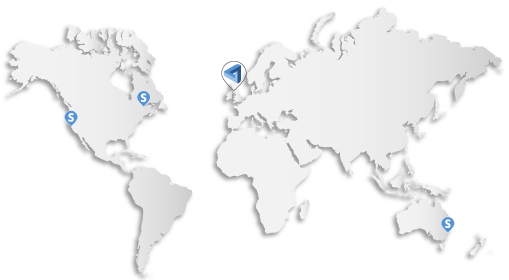
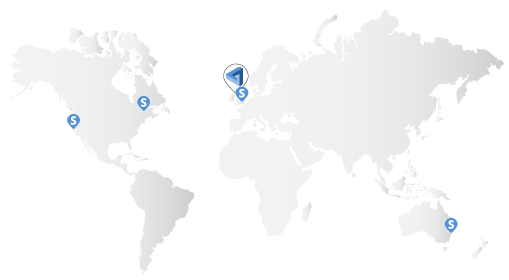
add London meetup to pod map

diff --git a/app/css/safe-pod.css b/app/css/safe-pod.css
@@ -19,7 +19,8 @@
 #pod-map #pod-1 {left:141px; top:238px; z-index:20;}
 #pod-map #pod-2 {left:858px; top:438px; z-index:20;}
 #pod-map #pod-3 {left:280px; top:199px; z-index:20;}
-#pod-map a#sanfrancisco, #pod-map a#sydney, #pod-map a#montreal {
+#pod-map #pod-4 {left:462px; top:186px; z-index:20;}
+#pod-map a#sanfrancisco, #pod-map a#sydney, #pod-map a#montreal, #pod-map a#london {
   display:block;
   width:31px;
   height:37px;
@@ -30,8 +31,8 @@
   display:none;
   color:#585858;
 }
-#pod-map a#sanfrancisco, #pod-map a#sydney, #pod-map a#montreal {background:url(/img/pod_icon.png) no-repeat 0 0;}
-#pod-map a#sanfrancisco:hover, #pod-map a#sydney:hover, #pod-map a#montreal:hover {background:url(/img/pod_icon_hover.png) no-repeat 0 0;}
+#pod-map a#sanfrancisco, #pod-map a#sydney, #pod-map a#montreal, #pod-map a#london {background:url(/img/pod_icon.png) no-repeat 0 0;}
+#pod-map a#sanfrancisco:hover, #pod-map a#sydney:hover, #pod-map a#london:hover, #pod-map a#london:hover {background:url(/img/pod_icon_hover.png) no-repeat 0 0;}
 #pod-map a:hover div {
   position:absolute;
   bottom: 300px;
@@ -49,15 +50,10 @@
   left:50px;
   top:10px;
 }
-#pod-map a#sanfrancisco:hover div {
-  left:30px;
-  top:2px;
-}
-#pod-map a#sydney:hover div {
-  left:30px;
-  top:2px;
-}
-#pod-map a#montreal:hover div {
+#pod-map a#sanfrancisco:hover div, 
+#pod-map a#sydney:hover div,
+#pod-map a#montreal:hover div,
+#pod-map a#london:hover div {
   left:30px;
   top:2px;
 }

diff --git a/app/safe-pods.html b/app/safe-pods.html
@@ -39,6 +39,7 @@ includes: ['safe-pods-map.html']
       <dd id="pod-1"><a id="sanfrancisco" href="http://www.meetup.com/Project-SAFE-San-Francisco/" target="_blank"><div>San Francisco</div></a></dd>
       <dd id="pod-2"><a id="sydney" href="http://www.meetup.com/Sydney-Project-SAFE/" target="_blank"><div>Sydney</div></a></dd>
       <dd id="pod-3"><a id="montreal" href="http://www.safepodmtl.com/" target="_blank"><div>Montreal</div></a></dd>
+      <dd id="pod-4"><a id="london" href="http://www.meetup.com/Project-SAFE-London/" target="_blank"><div>London</div></a></dd>
     </dl>
   <span id="legend">
     <div id="hq">
